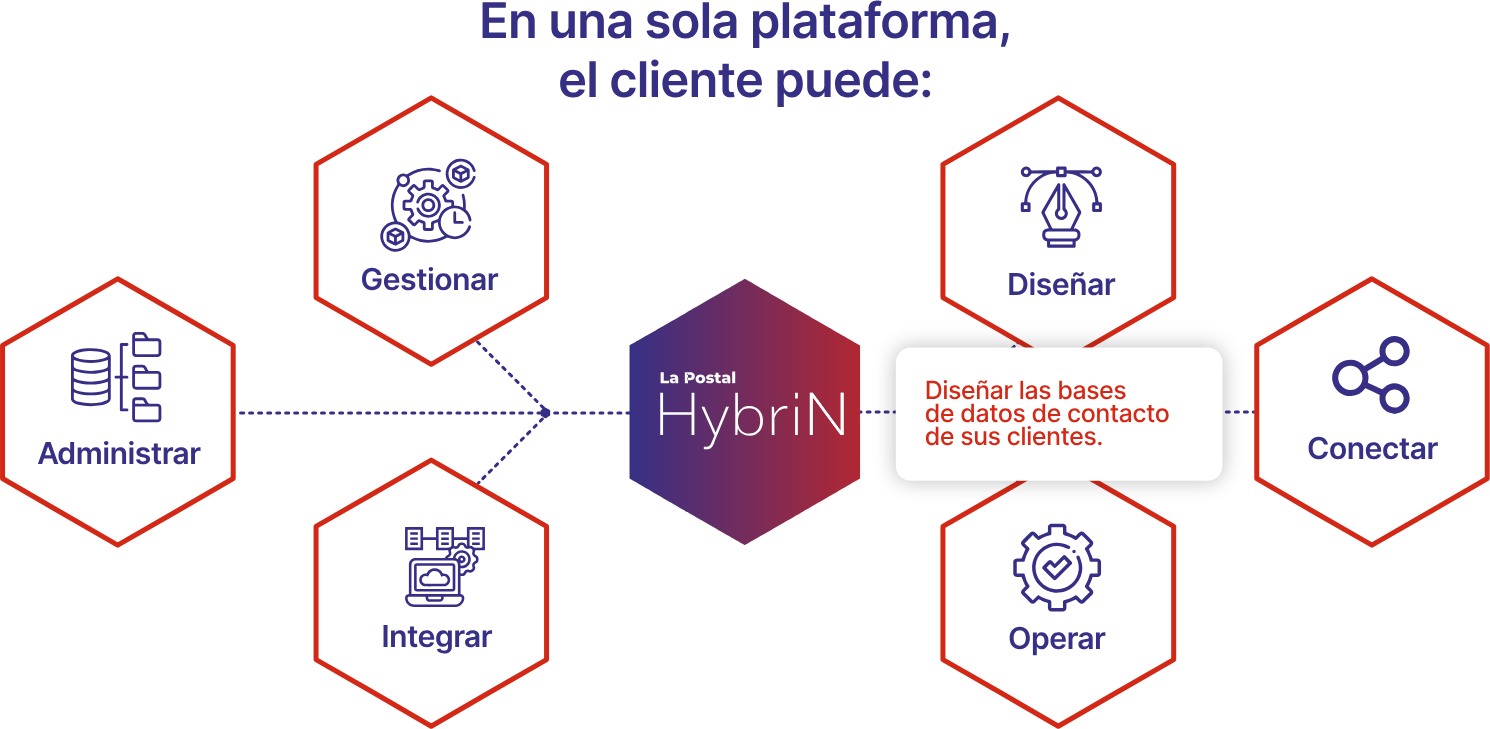
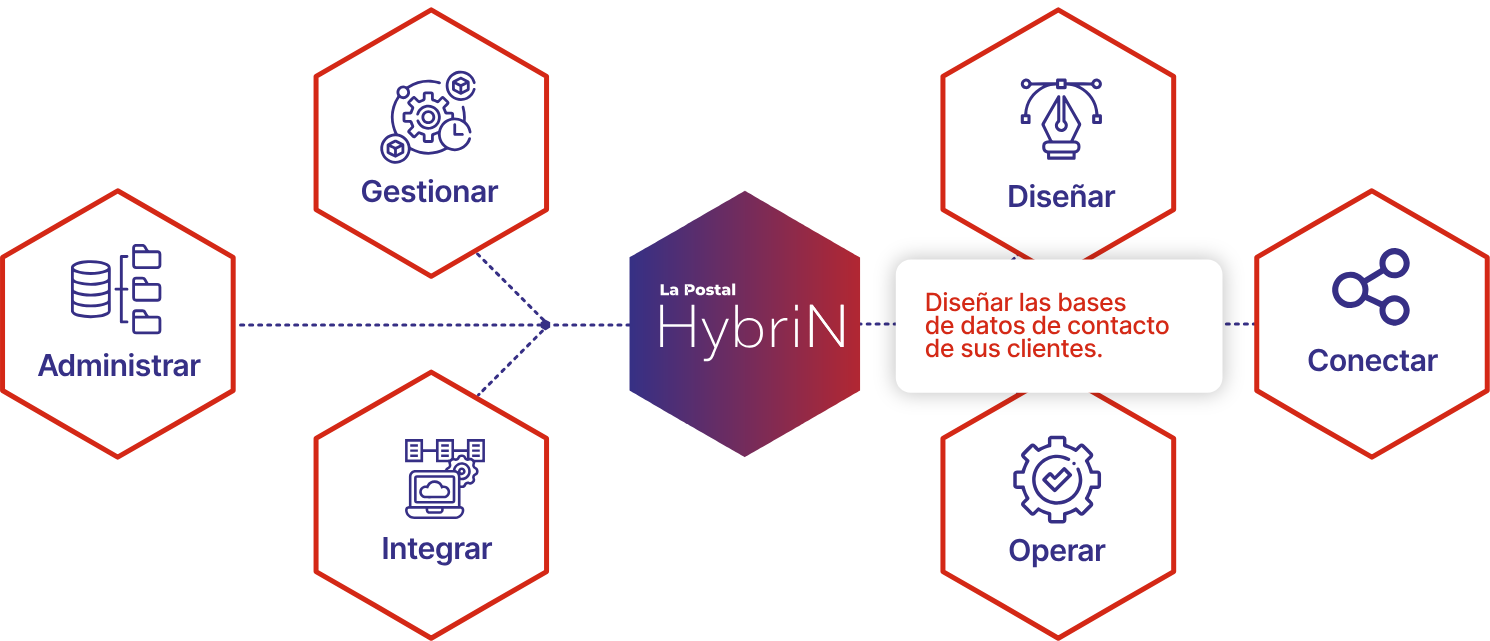
nuevos cambios

diff --git a/css/style.css b/css/style.css
@@ -260,7 +260,6 @@ main.hero button {
 
 @media screen and (min-width: 300px) and (max-width: 999.9px) {
   #section-desafio {
-    background-size: 85%;
     min-height: 320px;
   }
   #section-desafio > div {
@@ -273,7 +272,6 @@ main.hero button {
 }
 @media screen and (min-width: 1000px) and (max-width: 1499.9px) {
   #section-desafio {
-    background-size: 85%;
     min-height: 720px;
   }
   #section-desafio > div {
@@ -288,6 +286,71 @@ main.hero button {
   #section-desafio > div {
     min-height: 820px;
   }
+}
+#section-sola-plataforma {
+  min-height: 850px;
+  background-image: url("../img/una_sola_plataforma.png");
+  background-size: 75%;
+  background-position: center bottom;
+  background-repeat: no-repeat;
+  padding-top: 5rem;
+}
+#section-sola-plataforma p {
+  font-size: 3rem;
+  color: #363085;
+  font-weight: 700;
+  line-height: normal;
+  text-align: center;
+}
+
+@media screen and (min-width: 300px) and (max-width: 999.9px) {
+  #section-desafio {
+    min-height: 320px;
+  }
+}
+@media screen and (min-width: 1000px) and (max-width: 1499.9px) {
+  #section-desafio {
+    min-height: 720px;
+  }
+}
+@media screen and (min-width: 1500px) and (max-width: 1799.9px) {
+  #section-desafio {
+    min-height: 820px;
+  }
+}
+#section-omnicanalidad {
+  margin-top: 3rem;
+  padding-left: 15%;
+  padding-right: 15%;
+}
+#section-omnicanalidad h4 {
+  font-size: 3rem;
+  color: #363085;
+  font-weight: 700;
+  line-height: normal;
+  text-align: center;
+}
+#section-omnicanalidad h4 span {
+  color: #D42916;
+}
+#section-omnicanalidad > p {
+  text-align: center;
+  color: #363085;
+  font-size: 1.875rem;
+  font-weight: 500;
+}
+#section-omnicanalidad .row img {
+  width: 100%;
+}
+#section-omnicanalidad .row p {
+  border-left: 6px #D42916 solid;
+  padding-left: 1rem;
+  font-size: 1.25rem;
+  color: #363085;
+  line-height: normal;
+  font-family: "inter-light";
+  font-weight: 700;
+  margin-bottom: 2rem;
 }
 
 /*# sourceMappingURL=style.css.map */

diff --git a/index.html b/index.html
@@ -66,5 +66,30 @@
         </p>
       </div>
     </section>
+    <section id="section-sola-plataforma">
+      <p>En una sola plataforma,<br>
+        el cliente puede:</p>
+    </section>
+    <section id="section-omnicanalidad">
+      <h4><span>HybriN Omnicanalidad</span> aplicada al mundo de las
+        comunicaciones formales corporativas y la gestión
+        de cobranzas.</h4>
+        <p>Medición-Notificación-Cobranza</p>
+        <div class="row justify-content-center align-items-center">
+          <div class="col-12 col-lg-6">
+            <img src="img/omnicanalidad.png" alt="">
+          </div>
+          <div class="col-12 col-lg-6">
+            <p>Múltiples canales de comunicación integrados Físicos y digitales en un único entorno.</p>
+            <p>Diseño de procesos de comunicación a medida.</p>
+            <p>Incorporación de una figura fedataria - Empresa postal.</p>
+            <p>Trazabilidad completa de los procesos de comunicación End to end.</p>
+            <p>Respaldo de información en Tecnología Blockchain.</p>
+            <p>Reportes e información en línea.</p>
+            <p>Centralización de la cobranza digital.</p>
+            <p>Validación y enriquecimiento de base de datos.</p>
+          </div>
+        </div>
+    </section>
 </body>
 </html>

diff --git a/scss/section-omnicanalidad.scss b/scss/section-omnicanalidad.scss
@@ -1,0 +1,36 @@
+#section-omnicanalidad{
+    margin-top: 3rem;
+    padding-left:15%;
+    padding-right:15%;
+    h4{
+        font-size: $title-size-2;
+        color:$color-azul;
+        font-weight: 700;
+        line-height: normal;
+        text-align: center;
+        span{
+            color: $color-rojo;
+        }
+    }
+    > p{
+        text-align: center;
+        color: $color-azul;
+        font-size:$text-size-1;
+        font-weight: 500;
+    }
+    .row {
+        img{
+            width: 100%;
+        }
+        p{
+            border-left:6px $color-rojo solid;
+            padding-left: 1rem;
+            font-size: $text-size-3;
+            color: $color-azul;
+            line-height: normal;
+            font-family: "inter-light";
+            font-weight: 700;
+            margin-bottom: 2rem;
+        }
+    }
+}

diff --git a/scss/section-sola-plataforma.scss b/scss/section-sola-plataforma.scss
@@ -1,0 +1,32 @@
+#section-sola-plataforma{
+    min-height: 850px;
+    background-image: url("../img/una_sola_plataforma.png");
+    background-size: 75%;
+    background-position: center bottom;
+    background-repeat: no-repeat;
+    padding-top: 5rem;
+    p{
+        font-size: $title-size-2;
+        color:$color-azul;
+        font-weight: 700;
+        line-height: normal;
+        text-align: center;
+    }
+}
+@media screen and (min-width: 300px) and (max-width: 999.9px){
+    #section-desafio{
+        min-height: 320px;
+
+    }
+}
+@media screen and (min-width: 1000px) and (max-width: 1499.9px){
+    #section-desafio{
+        min-height: 720px;
+
+    }
+}
+@media screen and (min-width: 1500px) and (max-width: 1799.9px){
+    #section-desafio{
+        min-height: 820px;
+    }
+}

diff --git a/scss/section-desafio.scss b/scss/section-desafio.scss
@@ -35,7 +35,6 @@
 }
 @media screen and (min-width: 300px) and (max-width: 999.9px){
     #section-desafio{
-        background-size: 85%;
         min-height: 320px;
         > div{
             min-height: 320px;
@@ -48,7 +47,6 @@
 }
 @media screen and (min-width: 1000px) and (max-width: 1499.9px){
     #section-desafio{
-        background-size: 85%;
         min-height: 720px;
         > div{
             min-height: 720px;

diff --git a/scss/import.scss b/scss/import.scss
@@ -1,1 +1,1 @@
-@import "general","header","hero","section-digitalizacion","section-desafio","footer";
+@import "general","header","hero","section-digitalizacion","section-desafio","section-sola-plataforma","section-omnicanalidad","footer";
